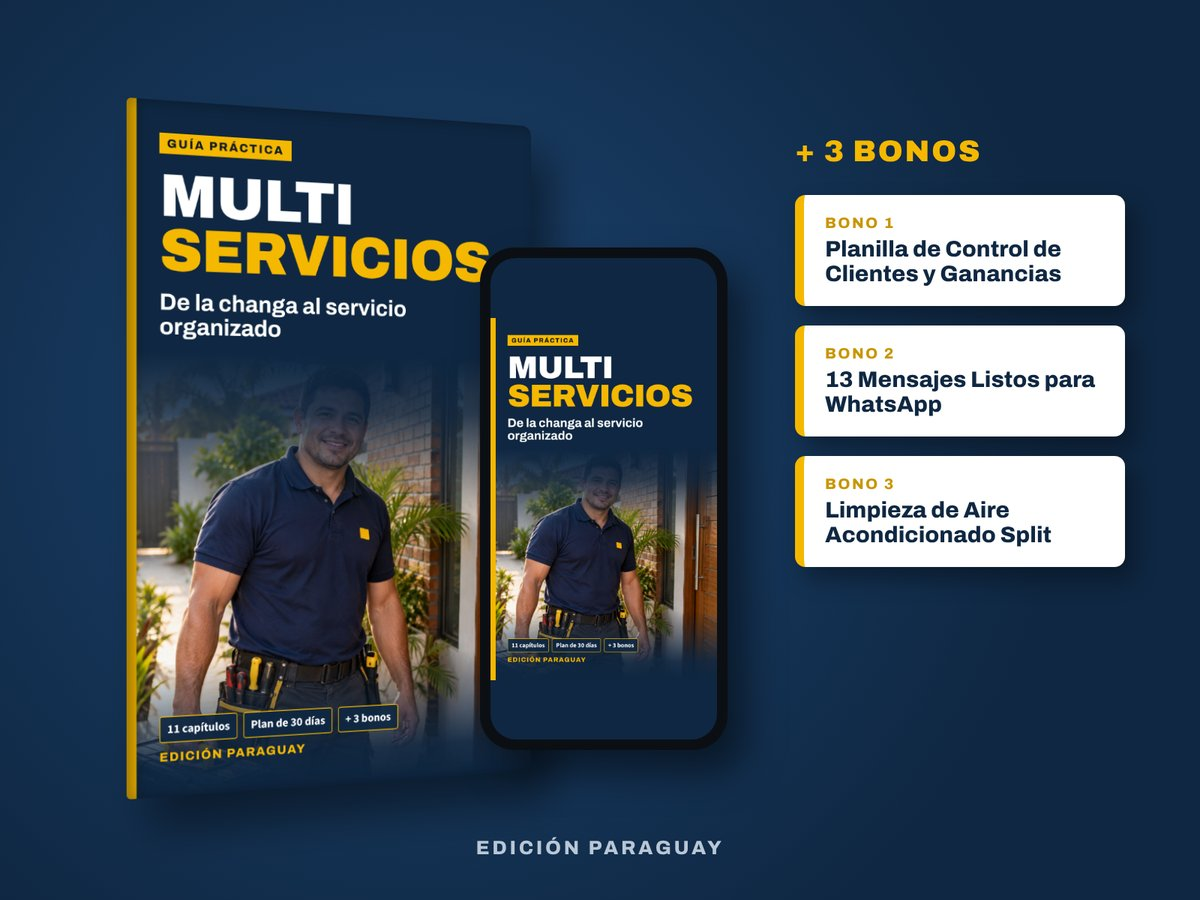
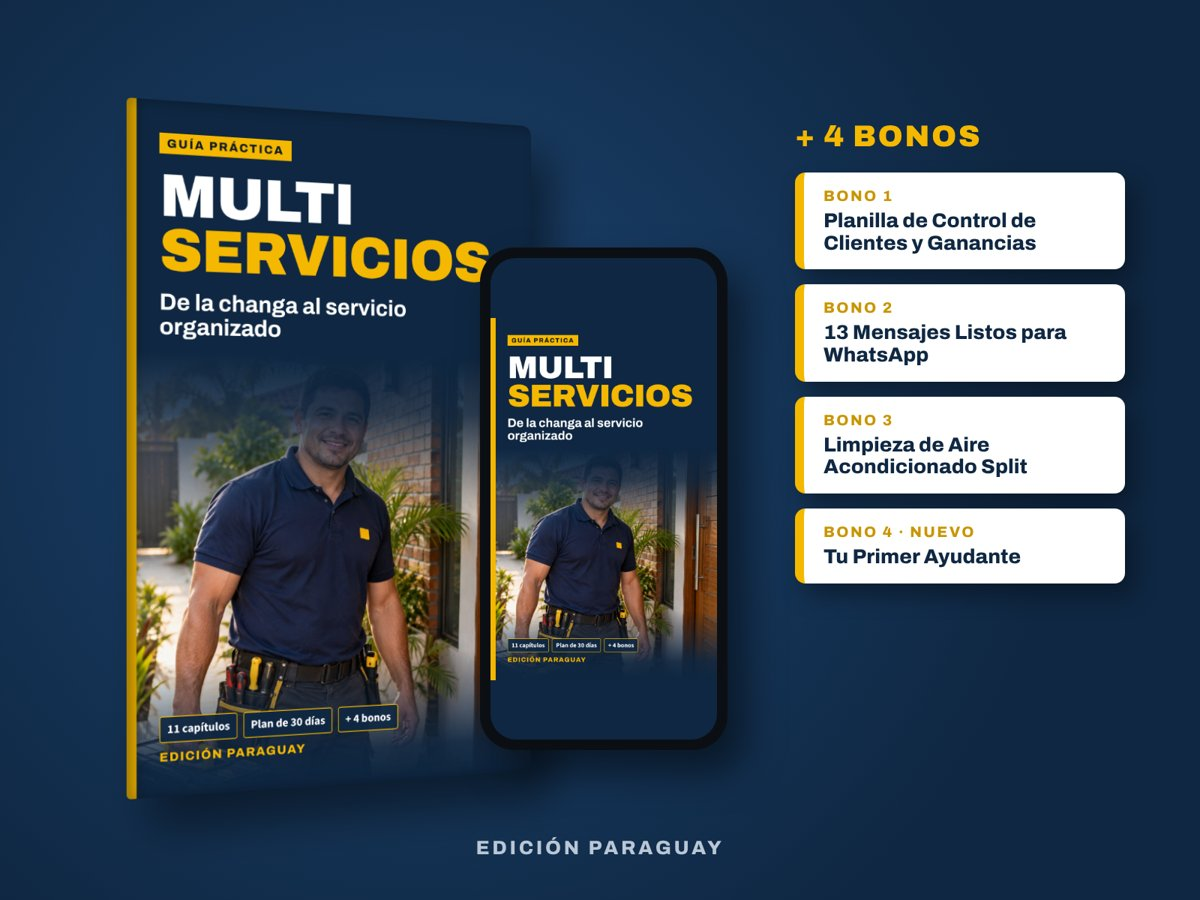
Mockup con 4 bonos
Claude-Session: https://claude.ai/code/session_01KEWifhTZxmvipCFAY6KRe3

Changed region(s): [[0.6475, 0.1244, 0.9558, 0.6533]]

diff --git a/index.html b/index.html
@@ -467,7 +467,7 @@ document.addEventListener('click',function(e){var a=e.target.closest&&e.target.c
       <span class="eyebrow">Empezá hoy</span>
       <h2>Tu negocio empieza con el primer cliente bien atendido</h2>
     </div>
-    <img src="img/mockup-py.jpg" alt="Guía Multiservicios en libro y celular con sus bonos" style="display:block;width:100%;max-width:720px;margin:0 auto 24px;border-radius:12px" loading="lazy">
+    <img src="img/mockup-py.jpg" alt="Guía Multiservicios en libro y celular con sus 4 bonos" style="display:block;width:100%;max-width:720px;margin:0 auto 24px;border-radius:12px" loading="lazy">
     <div class="oferta">
       <header><span>Tu kit para empezar</span><span>Acceso inmediato</span></header>
       <div class="cuerpo">
